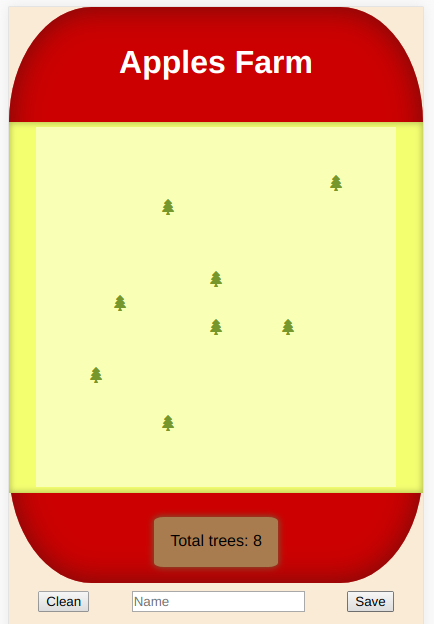
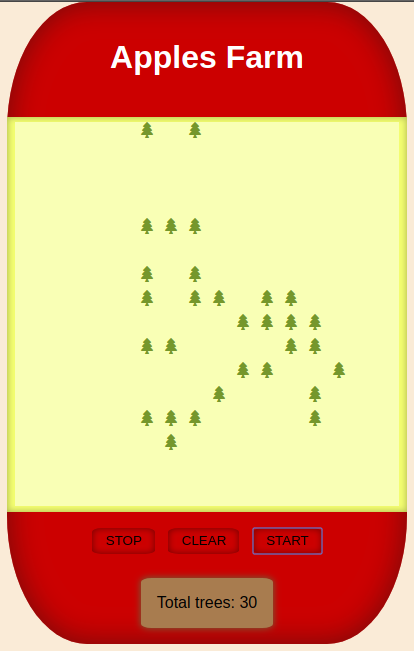
Added game of life algorithm and buttons for flow control.

diff --git a/js/script.js b/js/script.js
@@ -1,7 +1,7 @@
 "use strict";
 
-const width = 15;
-const height = 15;
+const width = 16;
+const height = 16;
 const treeColor = '#75972C';
 
 var config = {
@@ -11,7 +11,7 @@ var config = {
     projectId: "apple-trees",
     storageBucket: "apple-trees.appspot.com",
     messagingSenderId: "334685750082"
-  };
+};
 firebase.initializeApp(config);
 let database = firebase.database();
 let ref = database.ref("fields");
@@ -19,17 +19,20 @@ let ref = database.ref("fields");
 let trees = [];
 let div = document.getElementById("board");
 let treesCount = document.getElementById("total-trees");
-let btnClean = document.getElementById("btn-clean");
-let btnSave = document.getElementById("btn-save");
-let inputName = document.getElementById("input-name");
+let btnStop = document.getElementById("btn-stop");
+let btnStart = document.getElementById("btn-start");
+let btnClear = document.getElementById("btn-clear");
 
-let showTotalTrees = function(){
+let inputName = document.getElementById("input-name");
+let loop;
+
+let showTotalTrees = function () {
     treesCount.innerHTML = "Total trees: " + board.population;
 }
 
-let cliked = function(algo){
+let cliked = function (algo) {
     let exp = /[0-9]+/g;
-    let cell = (!exp.test(algo.path[0].id))?algo.path[1].id:algo.path[0].id;
+    let cell = (!exp.test(algo.path[0].id)) ? algo.path[1].id : algo.path[0].id;
     board.plant(cell);
     showTotalTrees();
     console.log(board.planted);
@@ -38,16 +41,87 @@ let cliked = function(algo){
 //create board, a matrix with all the divs
 let board = new Board(width, height, div, cliked);
 
-btnClean.addEventListener('click', function(){
-    board.clean();
-    showTotalTrees();
+btnStop.addEventListener('click', function () {
+    //board.clean();
+    //showTotalTrees();
+    clearInterval(loop);
 });
-btnSave.addEventListener('click', function(){
-    let data = {
+btnStart.addEventListener('click', function () {
+    /*let data = {
         name: inputName.value,
         field: board.planted
     }
     ref.push(data);
-    inputName.value = "";
+   inputName.value = "";*/
+   loop = setInterval(gameLoop, 1000);
+});
+btnClear.addEventListener('click', function () {
+    board.clean();
+    showTotalTrees();
+    clearInterval(loop);
 });
 
+
+
+let gameLoop = function(){
+    let forPlant = [];
+    
+    //If a dead cell has exactly three live neighbours, it comes to life
+    for (let x = 0; x < board.field.length; x++){
+        for (let y = 0; y < board.field[x].length; y++){
+            if((getContext(board.field, x, y) == 3) && !board.field[x][y].hasChildNodes()){
+                forPlant.push(board.field[x][y].id);
+            }            
+        }        
+    }
+
+    //If a live cell has less than two live neighbours, it dies
+    for (let x = 0; x < board.field.length; x++){
+        for (let y = 0; y < board.field[x].length; y++){
+            if((getContext(board.field, x, y) < 2) && board.field[x][y].hasChildNodes()){
+                forPlant.push(board.field[x][y].id);
+            }            
+        }        
+    }
+
+    //If a live cell has more than three live neighbours, it dies
+    for (let x = 0; x < board.field.length; x++){
+        for (let y = 0; y < board.field[x].length; y++){
+            if((getContext(board.field, x, y) > 3) && board.field[x][y].hasChildNodes()){
+                forPlant.push(board.field[x][y].id);
+            }            
+        }        
+    }
+
+
+    
+    forPlant.forEach(element => board.plant(element));
+    showTotalTrees();
+}
+
+let getContext = function(field, x, y){
+    let count = 0;
+  
+            let upL= (x>=1 && y>=1)?field[x-1][y-1]:"";
+            let up = x>=1?field[x-1][y]:"";
+            let upR = (x>=1 && y<field[x].length)?field[x-1][y+1]:"";
+            let downL = (x<field.length-1 && y>=1)?field[x+1][y-1]:"";
+            let down = x<field.length-1?field[x+1][y]:"";
+            let downR = (x<field.length-1 && y<field[x].length)?field[x+1][y+1]:"";
+            let left = y>=1?field[x][y-1]:"";
+            let rigth = y<field[x].length?field[x][y+1]:"";
+
+            if(upL){if(upL.hasChildNodes()){count++}}
+            if(up){if(up.hasChildNodes()){count++}}
+            if(upR){if(upR.hasChildNodes()){count++}}
+            if(downL){if(downL.hasChildNodes()){count++}}
+            if(down){if(down.hasChildNodes()){count++}}
+            if(downR){if(downR.hasChildNodes()){count++}}
+            if(left){if(left.hasChildNodes()){count++}}
+            if(rigth){if(rigth.hasChildNodes()){count++}}
+     
+    //console.log(field[x][y],count);
+    return count;
+}
+
+//gameLoop();

diff --git a/index.html b/index.html
@@ -15,17 +15,20 @@
     <title>Apples</title>
 </head>
 <body>
+   <div id="content">
     <div id="container">
-        <h1 id="tittle">Apples Farm</h1>
+            <h1 id="tittle">Apples Farm</h1>
         <div id="board"></div>
+        <div id="buttons">
+            <button id="btn-stop">STOP</button>
+            <button id="btn-clear">CLEAR</button>
+            <button id="btn-start">START</button>
+        </div>
         <p id="total-trees">Total trees: 0</p>
         
     </div>
-    <div id="buttons">
-        <button id="btn-clean">Clean</button>
-        <input id="input-name" type="text" placeholder="Name">
-        <button id="btn-save">Save</button>
-    </div>
+    
+   </div>
 <!--JS-->
 <script src="js/board.js"></script>
 <script src="js/script.js"></script>

diff --git a/style.css b/style.css
@@ -1,13 +1,19 @@
 html{
     margin: 0;
     padding: 0;
-    
+    width: 100%;
     font-family: sans-serif;
 }
 body{
     background-color: antiquewhite;
     width: 100%;
     margin: 0;
+    display: flex;
+}
+#content{
+    margin: auto;
+    align-items: center;
+    justify-content: center;
 }
 #container{
     width: 100%;
@@ -65,4 +71,13 @@ body{
     display: flex;
     flex-direction: row;
     justify-content: space-around;
+}
+
+#buttons * {
+    margin: 0em 0.5em;
+    border-radius: 15%;
+    padding: 0.4em 1em;
+    border: none;
+    background-color: #CC0000;
+    box-shadow: 0.1px 0.1px 10px 1px rgb(129, 1, 1) inset;
 }

diff --git a/js/board.js b/js/board.js
@@ -14,7 +14,6 @@ class Board{
 
         for (let x = 0; x < this.height; x++) {
             let row = document.createElement('div');
-            //row.id = "row-" + (x + 1);
 
             for (let y = 0; y < this.width; y++) {
                 let col = document.createElement('div');

diff --git a/README.md b/README.md
@@ -11,5 +11,5 @@ Things to do:
 - [x] Generating field.
 - [x] Plant apples tress:deciduous_tree: by cliking on the field.
 - [x] Remove apples tress:deciduous_tree: by cliking them.
-- [ ] Making trees produce delicious apples :apple:.
-- [ ] Add some interface where you can sell apples and buy trees.
+- [x] Making trees grow or die with game of life rules.
+- [ ] Add some interface with options.
